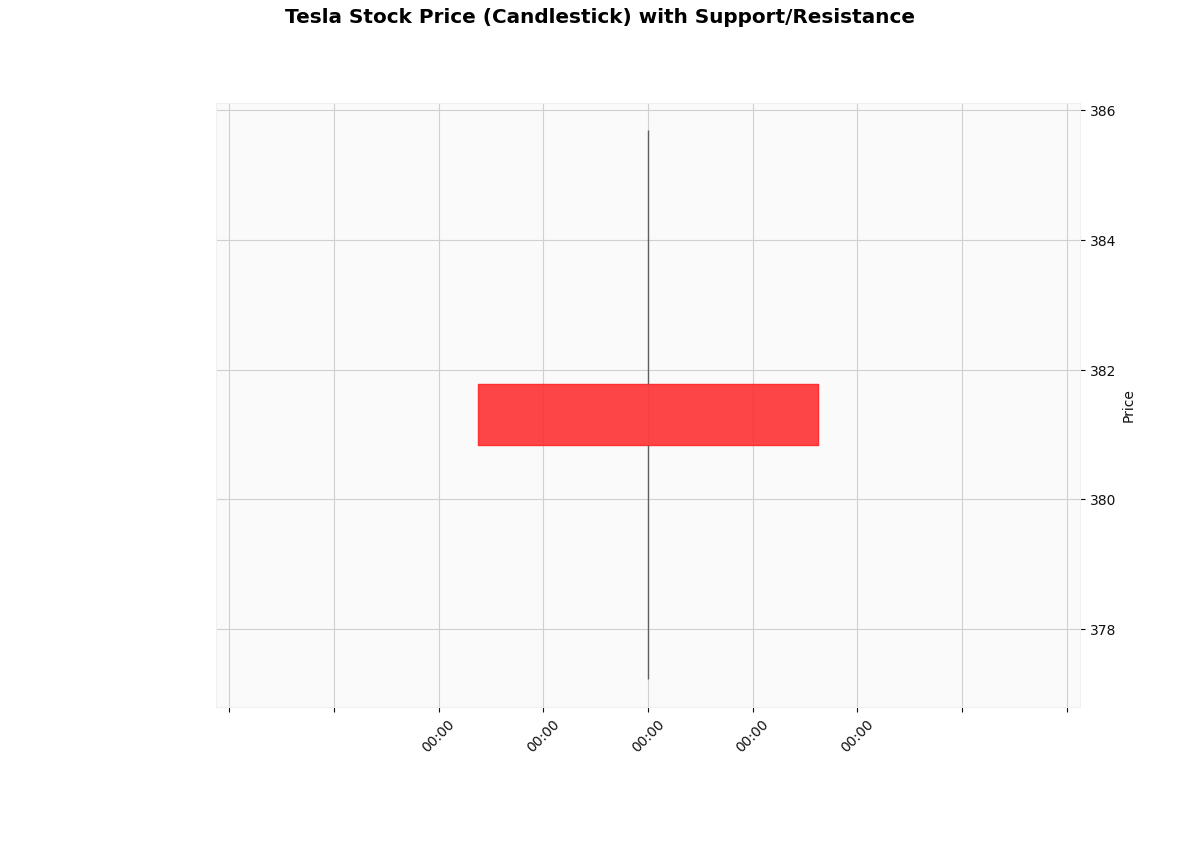
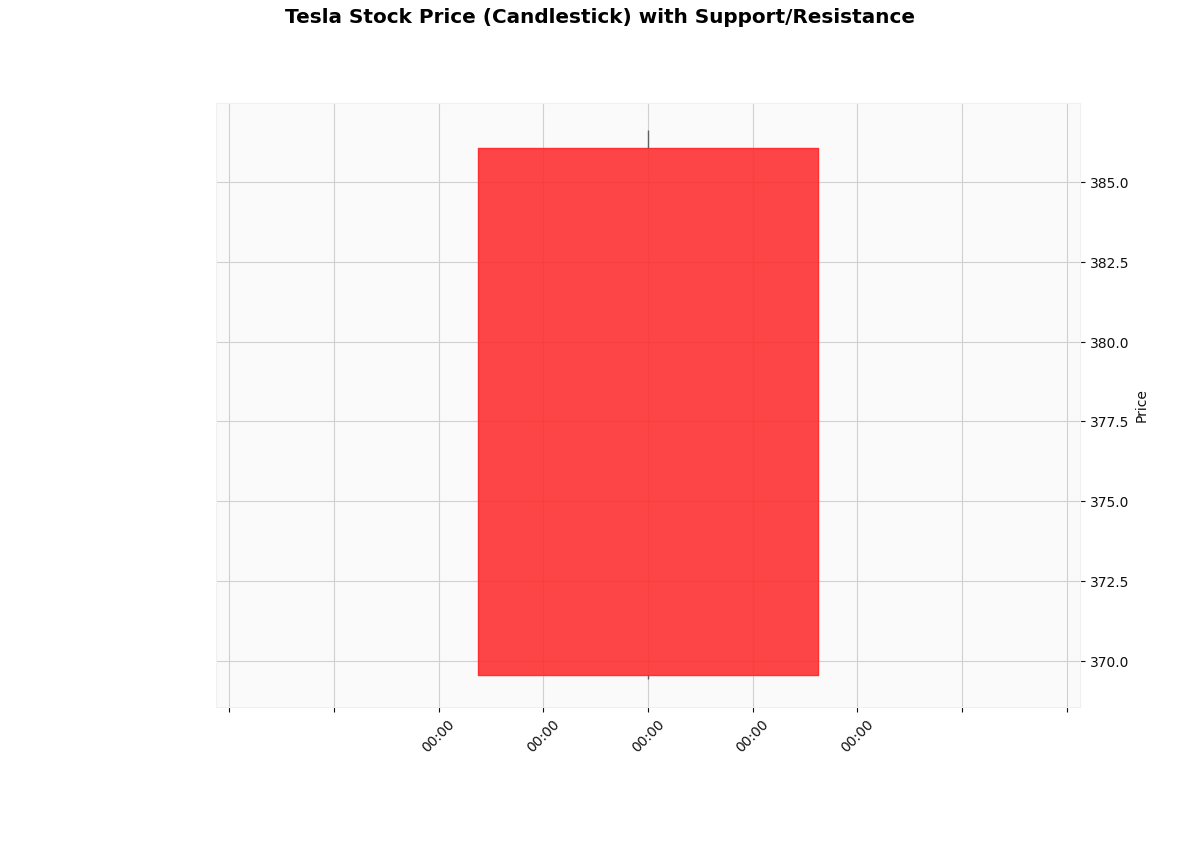
Daily update: Tesla stock chart and news

diff --git a/README.md b/README.md
@@ -69,7 +69,8 @@ For automated daily updates on GitHub, you need to set your API keys as **GitHub
 
 ## Tesla Stock Chart
 
-![Tesla Stock Chart](charts/tesla_stock_chart.png?20260720160721)
+![Tesla Stock Chart](charts/tesla_stock_chart.png?20260721155947)
+
 
 
 